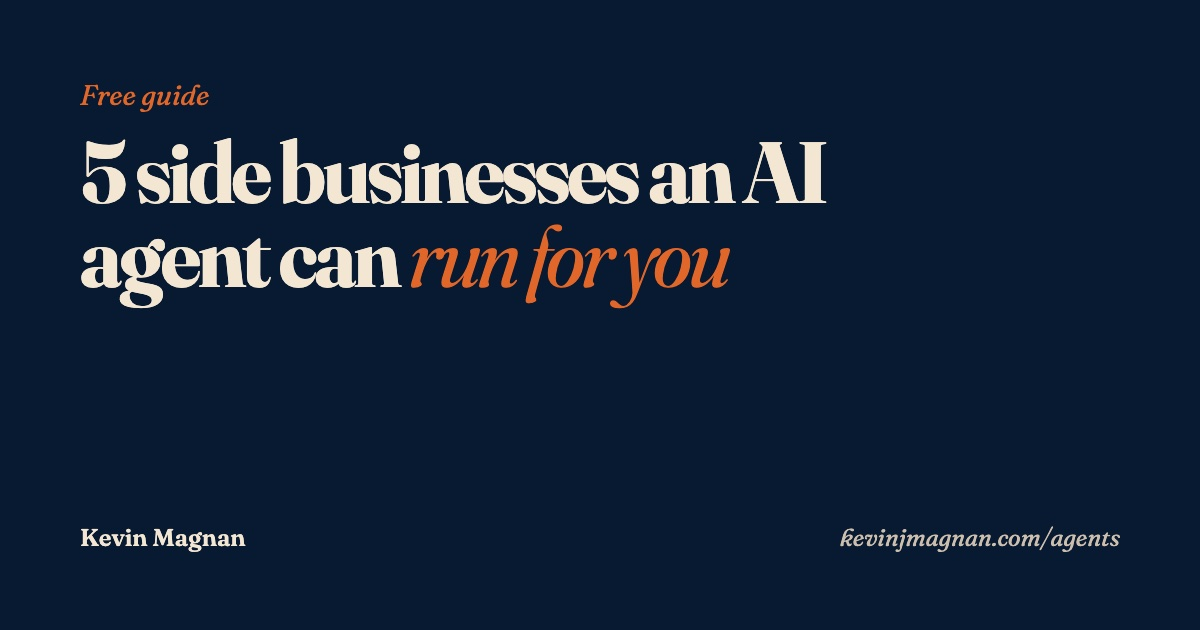
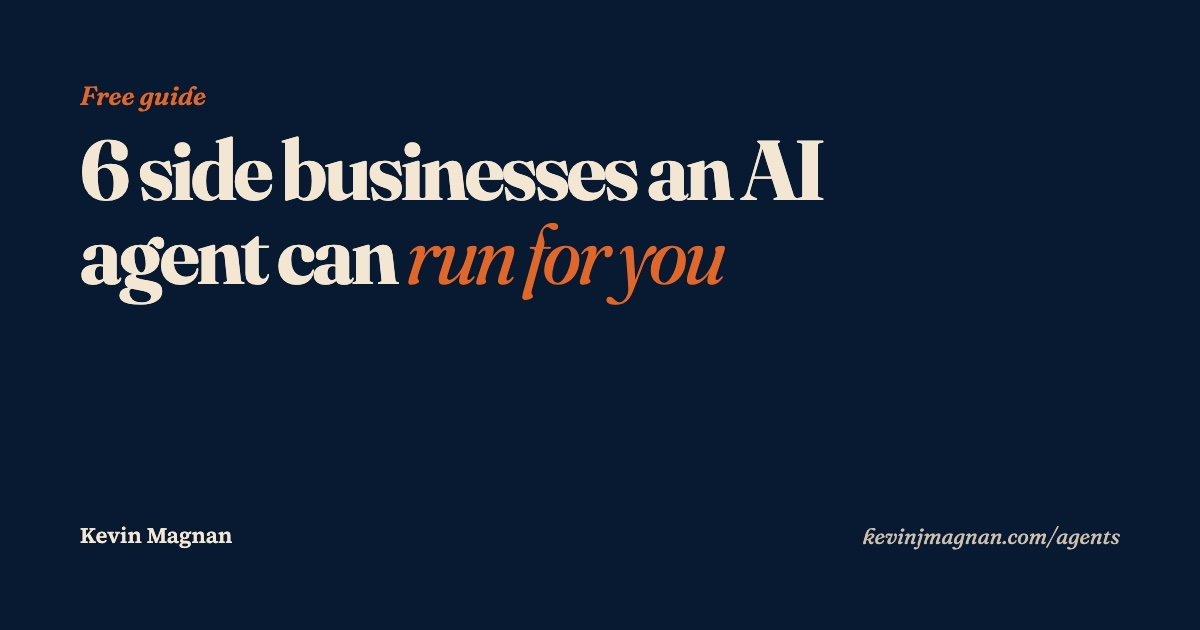
agents guide: 6 ideas plus a More ideas section
Add the agent matchmaker as #4 (Greg Isenberg, Startup Ideas Podcast,
credited near the top), renumber outreach to #5 and the $11 website to #6,
and update title, meta, TOC, and the share card to 6.

Add "More ideas that didn't fit in the video" after the six: dead-lead
revival, the money-finder agent, the class-action claim finder, and how to
pick what to build, each with who pays, a sourced number, and a prompt.

diff --git a/agents/index.html b/agents/index.html
@@ -3,14 +3,14 @@
 <head>
 <meta charset="utf-8">
 <meta name="viewport" content="width=device-width, initial-scale=1">
-<title>5 Side Businesses an AI Agent Can Run for You · Kevin Magnan</title>
+<title>6 Side Businesses an AI Agent Can Run for You · Kevin Magnan</title>
 <link rel="icon" href="/assets/brand/favicon.svg" type="image/svg+xml">
 <link rel="icon" href="/assets/brand/favicon-32.png" sizes="32x32" type="image/png">
 <link rel="apple-touch-icon" href="/assets/brand/apple-touch-icon.png">
 <meta name="theme-color" content="#071a31">
-<meta name="description" content="Five side businesses a browser AI agent can do the clicking for, with the real numbers from Chris Koerner's six-week test and a copy-paste prompt for each.">
-<meta property="og:title" content="5 side businesses an AI agent can run for you">
-<meta property="og:description" content="Five side businesses a browser AI agent can do the clicking for, with the real numbers from Chris Koerner's six-week test and a copy-paste prompt for each.">
+<meta name="description" content="Six side businesses a browser AI agent can do the clicking for, plus more, with real numbers from Chris Koerner's six-week test, a story from Greg Isenberg, and a copy-paste prompt for each.">
+<meta property="og:title" content="6 side businesses an AI agent can run for you">
+<meta property="og:description" content="Six side businesses a browser AI agent can do the clicking for, plus more, with real numbers from Chris Koerner's six-week test, a story from Greg Isenberg, and a copy-paste prompt for each.">
 <meta name="twitter:card" content="summary_large_image">
 <meta property="og:image" content="https://kevinjmagnan.com/agents/img/og.jpg">
 <link rel="preconnect" href="https://fonts.googleapis.com">
@@ -89,6 +89,15 @@
   .facts div:last-child strong { color: var(--paper); }
   .warn { margin-top: 1.2em; padding: 16px 20px; border: 1px solid rgba(168,67,26,.35); background: rgba(224,102,42,.08); border-radius: 6px; font-size: .98rem; color: var(--ink); }
   .warn b { display: block; font: 600 .78rem/1.4 var(--mono); letter-spacing: .02em; color: var(--rust); margin-bottom: 4px; }
+  .toc-more { margin-top: 1.2em !important; font: 600 .78rem/1.4 var(--mono); letter-spacing: .06em; text-transform: uppercase; color: var(--rust) !important; }
+  .toc-sub { list-style: none; padding-left: 1.6em !important; margin-top: .2em !important; }
+  .toc-sub li::before { content: "+"; display: inline-block; width: 1.2em; font-family: var(--font-heading); font-weight: 700; color: var(--rust); }
+  .more-intro { color: var(--ink-dim) !important; }
+  main h3.more { font-size: 1.5rem; margin-top: 2em; padding-top: .7em; border-top: 1px solid rgba(10,22,40,.25); }
+  .facts.lite div { padding: 14px 16px; font-size: .92rem; }
+  .facts.lite div:last-child { background: rgba(255,255,255,.4); border: 1px solid rgba(10,22,40,.25); color: var(--ink-dim); }
+  .facts.lite div:last-child b { color: var(--rust); }
+  .facts.lite div:last-child strong { color: var(--ink); }
   .sources { margin-top: 2.4em; padding-top: 1.2em; border-top: 1px solid rgba(10,22,40,.2); font-size: .95rem; }
   .sources h3 { margin-top: 0; font-size: 1.1rem; }
   .sources p { color: var(--ink-dim); }
@@ -142,8 +151,9 @@
 <header class="band band-navy"><div class="head">
   <a class="home" href="/"><span>&larr;</span>Kevin Magnan</a>
   <p class="kicker">Free guide · from @vibewithkevin</p>
-  <h1>5 side businesses an AI agent can <em>run for you</em></h1>
+  <h1>6 side businesses an AI agent can <em>run for you</em></h1>
   <p class="sub">These ideas come from Chris Koerner's video <a href="https://www.youtube.com/watch?v=JhyVSrQPVSg" target="_blank" rel="noopener">"I Let AI Make and Save Me Money for 6 Weeks"</a> on The Koerner Office podcast, posted October 21, 2026. The numbers below are his. The prompts are mine, written fresh for this page. They are not Chris's own doc.</p>
+  <p class="sub">Idea #4 comes from Greg Isenberg's Startup Ideas Podcast episode <a href="https://www.youtube.com/watch?v=tpZOU1ugODQ" target="_blank" rel="noopener">"Meta Muse Will Create 1,000 Millionaires"</a>, posted October 19, 2026. The story is his. The prompt is my adaptation.</p>
   <p class="byline">By Kevin Magnan · @vibewithkevin</p>
 </div></header>
 
@@ -160,9 +170,17 @@
   <li><a href="#quotes">The quote agent for big home projects</a></li>
   <li><a href="#garage">The garage machine</a></li>
   <li><a href="#dropship">Dropshipping in messy niches</a></li>
+  <li><a href="#matchmaker">The agent matchmaker</a></li>
   <li><a href="#outreach">The outreach machine for AI setup clients</a></li>
   <li><a href="#website">The $11 website</a></li>
 </ol>
+<p class="toc-more">More ideas</p>
+<ul class="toc-sub">
+  <li><a href="#dead-leads">Dead-lead revival for local businesses</a></li>
+  <li><a href="#money-finder">The money-finder agent</a></li>
+  <li><a href="#class-action">The class-action claim finder</a></li>
+  <li><a href="#pick">How to pick what to build</a></li>
+</ul>
 
 <!-- 1 -->
 <h2 id="quotes">1. The quote agent for big home projects</h2>
@@ -232,7 +250,27 @@ Orders (only after I approve the product list and the store is live on [STORE PL
 <div class="warn"><b>Before you list anything</b>Check each supplier yourself and read their return policy. When something arrives broken, the buyer will come to you, not the supplier.</div>
 
 <!-- 4 -->
-<h2 id="outreach">4. The outreach machine for AI setup clients</h2>
+<h2 id="matchmaker">4. The agent matchmaker</h2>
+<p class="what">The agent finds people for hard-to-fill jobs in public Facebook groups, you check them out, and you run the agency.</p>
+<div class="facts">
+  <div><b>Who pays you</b>Families or businesses who would otherwise pay an agency's placement fee, or who can't find the help at all. Your margin is high because there are no recruiters to pay.</div>
+  <div><b>Greg's story</b>Greg and his wife had a baby and couldn't find a night nurse. The agency they went to admitted it found nurses by searching Facebook groups, like Miami or South Florida night nurse groups. So he told an AI agent to find night nurses around <strong>$30 an hour</strong> in <strong>Montreal</strong> from public Facebook groups. It came back with a list.</div>
+</div>
+<p>Then you check out the people on the list (Greg calls it cleaning the data), price it, and run the agency. You can give the agent its own phone number, about <strong>$15</strong> for an agent phone plan through a voice AI service, so it can call and reach out to people. His niche examples: night nurses in Tampa, furniture in Austin, plumbers in Phoenix. His three levels: find the people, own the cleaned list, then own the room, meaning the Facebook group or niche page itself.</p>
+<div class="copy-block"><span class="copy-label">Paste into your browser agent</span><button class="copy" type="button" data-label="Copy prompt">Copy prompt</button><pre class="wrap"><code>I'm building a list of [ROLE, e.g. night nurses] who offer their services in [CITY] at around [RATE, e.g. $30 an hour]. Use the web browser to do this step by step.
+
+1. Search public Facebook groups, Facebook Marketplace, and public posts for [ROLE] offering services in [CITY]. Try group names like "[CITY] [ROLE]" and "[REGION] [ROLE]". Stay in groups and posts that are public.
+2. Collect only information people posted publicly themselves. Do not guess at or look up private details.
+3. Make a spreadsheet called "[ROLE] [CITY] list" with these columns: Name, Profile link, Rate, Experience, Availability, Where I found them, Duplicate (yes/no), Looks fake (yes/no), Approved (yes/no), Notes.
+4. Log every person you find as you go. If the same person shows up more than once, mark the duplicate. If a profile or post looks fake (no history, copied text, a rate far off from everyone else), mark it and say why in Notes.
+5. Do not message, call, friend, or comment on anyone. Stop when the list is done and wait for me to fill in the Approved column.
+6. After I approve people, write a short, friendly intro message for each approved person. Use this outline: who I am ([YOUR NAME]), that I saw their post in [WHERE I FOUND THEM], that I'm looking for [ROLE] in [CITY] for [SCHEDULE OR JOB], and how to reach me at [PHONE OR EMAIL]. Put each draft in Notes. Do not send them.
+7. Report back with how many people you found, how many look solid, the rate range, and anything that looked strange.</code></pre></div>
+<div class="warn"><b>Before you place anyone</b>Check references and any license or background check the role needs, like for childcare or nursing. Follow each group's rules.</div>
+<p class="hint">To turn this into a business, pick one role in one city, clean the list, and charge the families or businesses who need the help. Then grow the group or page where those people gather.</p>
+
+<!-- 5 -->
+<h2 id="outreach">5. The outreach machine for AI setup clients</h2>
 <p class="what">You find local businesses that are losing customers to missed calls and slow booking, then show them a fix before you ask for anything.</p>
 <div class="facts">
   <div><b>Who pays you</b>Local businesses that pay you to set up an AI receptionist, a missed-call text-back, and a booking page.</div>
@@ -256,8 +294,8 @@ Orders (only after I approve the product list and the store is live on [STORE PL
 9. Report back with the spreadsheet link and the top 10 audits, best first.</code></pre></div>
 <div class="warn"><b>One rule</b>Cold calls and texts have rules that differ by state and country. Check yours before you contact anyone.</div>
 
-<!-- 5 -->
-<h2 id="website">5. The $11 website</h2>
+<!-- 6 -->
+<h2 id="website">6. The $11 website</h2>
 <p class="what">You find a city where people search for a service but few businesses show up, build a simple site that ranks for it, and rent the leads to one local company.</p>
 <div class="facts">
   <div><b>Who pays you</b>One local business that wants every lead from your site. Chris's example price: $800 a month, raised to $1,200 later. Skip dentists, HVAC, plumbing, roofing, and electrical, because everyone already sells to them. Go wide and go weird.</div>
@@ -282,14 +320,83 @@ Orders (only after I approve the product list and the store is live on [STORE PL
 6. Make a spreadsheet called "[SERVICE] [CITY] leads" with these columns: Date, Name, Phone, Email, Job details, Rough job size, Sent to.
 7. Report back with the site link, what it cost, and anything you need me to finish.</code></pre></div>
 
+<!-- More ideas -->
+<h2 id="more">More ideas that didn't fit in the video</h2>
+<p class="more-intro">Shorter versions, same idea: a browser agent does the clicking, and you keep anything that sends, spends, or files behind a yes from you.</p>
+
+<h3 class="more" id="dead-leads">Dead-lead revival for local businesses</h3>
+<p class="what">A business hands you its old estimates and form fills that never closed. The agent follows up with them and books appointments.</p>
+<div class="facts lite">
+  <div><b>Who pays you</b>The business. Every old lead it already paid to get is a second chance at a job.</div>
+  <div><b>Real pricing</b>Agencies charge per booked appointment, around <strong>$120</strong> each in <a href="https://flexxable.com" target="_blank" rel="noopener">flexxable.com</a>'s pricing example, or about <strong>$5,000</strong> per campaign at <a href="https://doubletimeai.com" target="_blank" rel="noopener">doubletimeai.com</a>.</div>
+</div>
+<div class="copy-block"><span class="copy-label">Paste into your browser agent</span><button class="copy" type="button" data-label="Copy prompt">Copy prompt</button><pre class="wrap"><code>I'm helping [BUSINESS NAME], a [TYPE OF BUSINESS] in [CITY], follow up with old leads that never booked. Work from the attached spreadsheet they exported: [SPREADSHEET NAME]. Do this step by step.
+
+1. Read every lead. Note their name, phone, what they originally asked for, and when.
+2. Skip anyone marked as do not contact, anyone who already booked, and anyone with no phone number.
+3. For each remaining lead, draft one short follow-up text that mentions their original request, like: "Hi [FIRST NAME], this is [YOUR NAME] with [BUSINESS NAME]. You asked about [ORIGINAL REQUEST] back in [MONTH]. Still need help? You can grab a time here: [CALENDAR LINK]."
+4. Add a tab called "Follow-ups" with these columns: Name, Phone, Original request, Date of request, Draft text, Approved (yes/no), Sent date, Reply, Booked (yes/no), Appointment time.
+5. Do not send anything until I mark it Approved. Then send only the approved texts through [TEXTING TOOL].
+6. Log every reply. If someone asks to stop, mark them do not contact and never message them again.
+7. If someone wants to book, send them [CALENDAR LINK] and log the appointment time once it shows up.
+8. Report back each day: texts sent, replies, appointments booked, and any reply I need to answer myself.</code></pre></div>
+<div class="warn"><b>One rule</b>Only contact people who gave the business their number, and follow the texting and calling consent rules where you and they live.</div>
+
+<h3 class="more" id="money-finder">The money-finder agent</h3>
+<p class="what">The agent hunts for money a client is losing: bills that could be lower, subscriptions nobody uses, and money they're owed.</p>
+<div class="facts lite">
+  <div><b>Who pays you</b>Busy households and small offices, for a cut of what you save them.</div>
+  <div><b>The source</b>Meta's Alexandr Wang started the <strong>#MuseMoneyChallenge</strong> in September 2026: have an agent save you <strong>$1,000</strong> by negotiating bills, canceling unused subscriptions, and finding money you're owed. Business Insider noted many early replies came from Meta's own staff.</div>
+</div>
+<div class="copy-block"><span class="copy-label">Paste into your browser agent</span><button class="copy" type="button" data-label="Copy prompt">Copy prompt</button><pre class="wrap"><code>Help me find money for [CLIENT NAME]. I've attached their statements: [STATEMENTS, e.g. 3 months of bank and credit card statements]. Do this step by step. Do not cancel, pay, or sign up for anything.
+
+1. List every recurring charge: who it's to, the amount, how often, and the last date charged.
+2. Flag subscriptions that look unused or doubled up, and anything that went up in price.
+3. For each bill that could be lower (phone, internet, insurance, [OTHER BILLS]), write a short negotiation script [CLIENT NAME] or I can use on the phone or in chat, including what competitors charge if you can find it.
+4. Search the official unclaimed property site for [STATE OR STATES THEY'VE LIVED IN] for [CLIENT NAME] and [OTHER NAMES OR PAST ADDRESSES]. Use only official state sites, never a paid finder service.
+5. Make a spreadsheet called "[CLIENT NAME] money found" with these columns: Item, Type (cancel, negotiate, unclaimed), Current cost, Possible savings, Next step, Approved (yes/no), Notes.
+6. Report back with the total possible savings, the top 5 moves, and anything you need me to check. Wait for my approval before taking any action.</code></pre></div>
+
+<h3 class="more" id="class-action">The class-action claim finder</h3>
+<p class="what">The agent reads an inbox, finds class action settlements the person qualifies for, and lines up the claims. This was Chris Koerner's sixth idea.</p>
+<div class="facts lite">
+  <div><b>Who pays you</b>Anyone who has bought things online for years. Chris's idea: a simple app that takes a small cut, or charges <strong>$10</strong> and refunds it if it finds less than that.</div>
+  <div><b>Chris's number</b>His friend Brandon connected an agent to his inbox and asked it to find settlements he was eligible for and file them. It found <strong>8</strong>, and he's gotten about <strong>$200</strong> back so far.</div>
+</div>
+<div class="copy-block"><span class="copy-label">Paste into your browser agent</span><button class="copy" type="button" data-label="Copy prompt">Copy prompt</button><pre class="wrap"><code>Help me find class action settlements I may be eligible for. You have access to my inbox at [EMAIL ACCOUNT]. Do this step by step. Do not file anything yet.
+
+1. Search my inbox for settlement notices, "class action" emails, and purchase receipts from the last [NUMBER, e.g. 5] years.
+2. Check official settlement administrator sites for open claims that match companies I bought from or used. Only use the official claim site named in the settlement notice or the court's site.
+3. Make a spreadsheet called "Settlement claims" with these columns: Settlement, Company, Why I might qualify, Proof required, Proof I have (link to the email), Claim deadline, Estimated payout, Official claim link, Confirmed true (yes/no), Filed (yes/no).
+4. Sort it by deadline, soonest first.
+5. Report back with the list and ask me to confirm each one. Only file the claims I mark Confirmed true, using [MY NAME, ADDRESS, AND PAYMENT METHOD FOR PAYOUTS].
+6. Never pay a fee to file, and never share my details with a site that isn't the official claim site.</code></pre></div>
+<div class="warn"><b>One rule</b>Only file claims you actually qualify for. Filing a false claim can be fraud.</div>
+
+<h3 class="more" id="pick">How to pick what to build</h3>
+<p class="what">Chris's cheat code: have the agent pull apart a company that's already winning in a niche, so you copy what works instead of guessing.</p>
+<div class="facts lite">
+  <div><b>Who it's for</b>You, before you spend a dollar on any of the ideas above.</div>
+  <div><b>Chris's cheat code</b>Look at the company's ads in the <strong>Meta Ad Library</strong> (video or static, which countries), its backlinks, and its website year by year in the <strong>Wayback Machine</strong>, then see what changed over time.</div>
+</div>
+<div class="copy-block"><span class="copy-label">Paste into your browser agent</span><button class="copy" type="button" data-label="Copy prompt">Copy prompt</button><pre class="wrap"><code>I want to study [COMPANY NAME] ([WEBSITE]), a company that's winning in [NICHE]. Use the web browser to do this step by step. Do not sign up for anything that costs money.
+
+1. Search the Meta Ad Library for [COMPANY NAME]. For each active ad, note: video or static, the main hook, the offer, which countries it runs in, and how long it has been running.
+2. Find who links to [WEBSITE] using [BACKLINK TOOL, e.g. a free backlink checker]. List the top 20 linking sites and what kind of site each one is.
+3. Open [WEBSITE] in the Wayback Machine. Look at one snapshot per year going back [NUMBER, e.g. 5] years. For each year, note the headline, the main product or offer, the price if shown, and anything new or removed.
+4. Make a spreadsheet called "[COMPANY NAME] teardown" with tabs for Ads, Backlinks, and Website history.
+5. Report back with what changed over time, what they seem to have doubled down on, and 3 ideas I could copy in [MY CITY OR MY NICHE].</code></pre></div>
+
 <div class="sources">
   <h3>Before you start</h3>
   <p>Agent apps change fast. Any browser agent that can click and fill out forms will work with these prompts. Watch what it does the first few times, and keep anything that spends money behind a yes from you.</p>
-  <h3>Source</h3>
+  <h3>Sources</h3>
   <ul>
     <li><a href="https://www.youtube.com/watch?v=JhyVSrQPVSg" target="_blank" rel="noopener">Chris Koerner, "I Let AI Make and Save Me Money for 6 Weeks," The Koerner Office podcast</a></li>
+    <li><a href="https://www.youtube.com/watch?v=tpZOU1ugODQ" target="_blank" rel="noopener">Greg Isenberg, "Meta Muse Will Create 1,000 Millionaires," The Startup Ideas Podcast</a></li>
+    <li>More ideas: pricing examples from <a href="https://flexxable.com" target="_blank" rel="noopener">flexxable.com</a> and <a href="https://doubletimeai.com" target="_blank" rel="noopener">doubletimeai.com</a>; Alexandr Wang's #MuseMoneyChallenge as reported by Business Insider; the claim finder and cheat code from Chris Koerner's video above.</li>
   </ul>
-  <p>Ideas and numbers: Chris Koerner. Prompts: Kevin Magnan, @vibewithkevin.</p>
+  <p>Ideas and numbers: Chris Koerner. Idea #4: Greg Isenberg. Prompts: Kevin Magnan, @vibewithkevin.</p>
 </div>
 
 </div></main>
